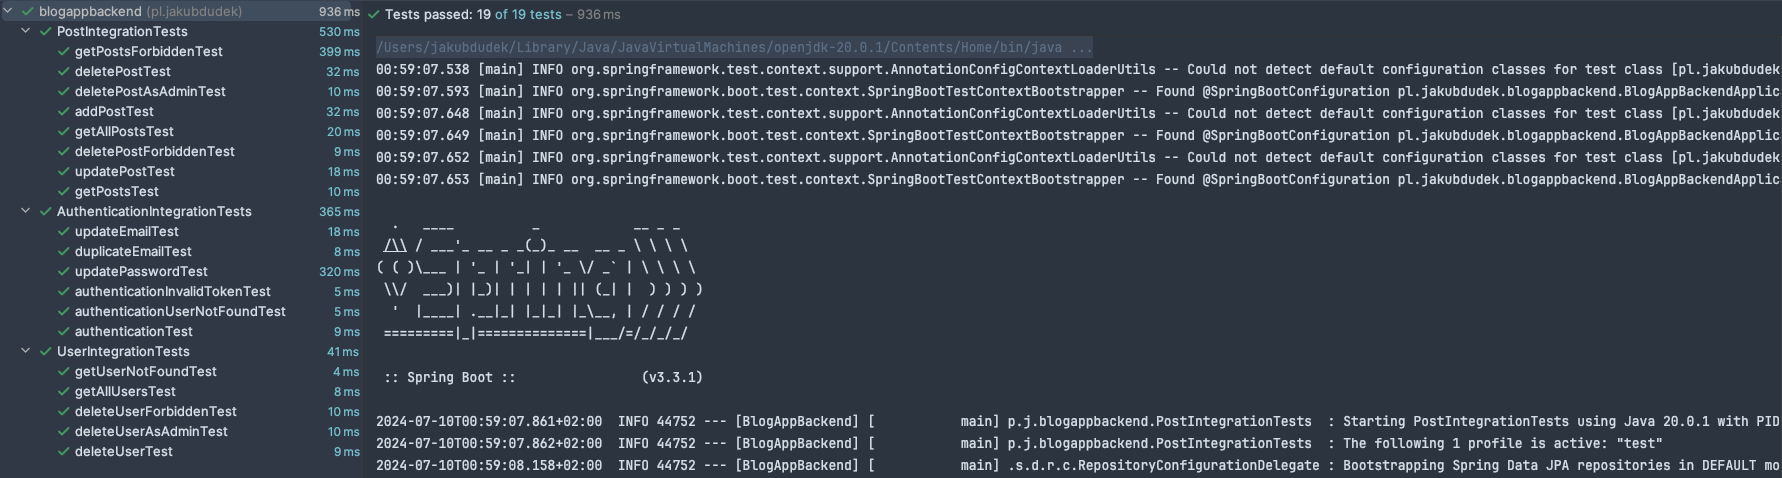
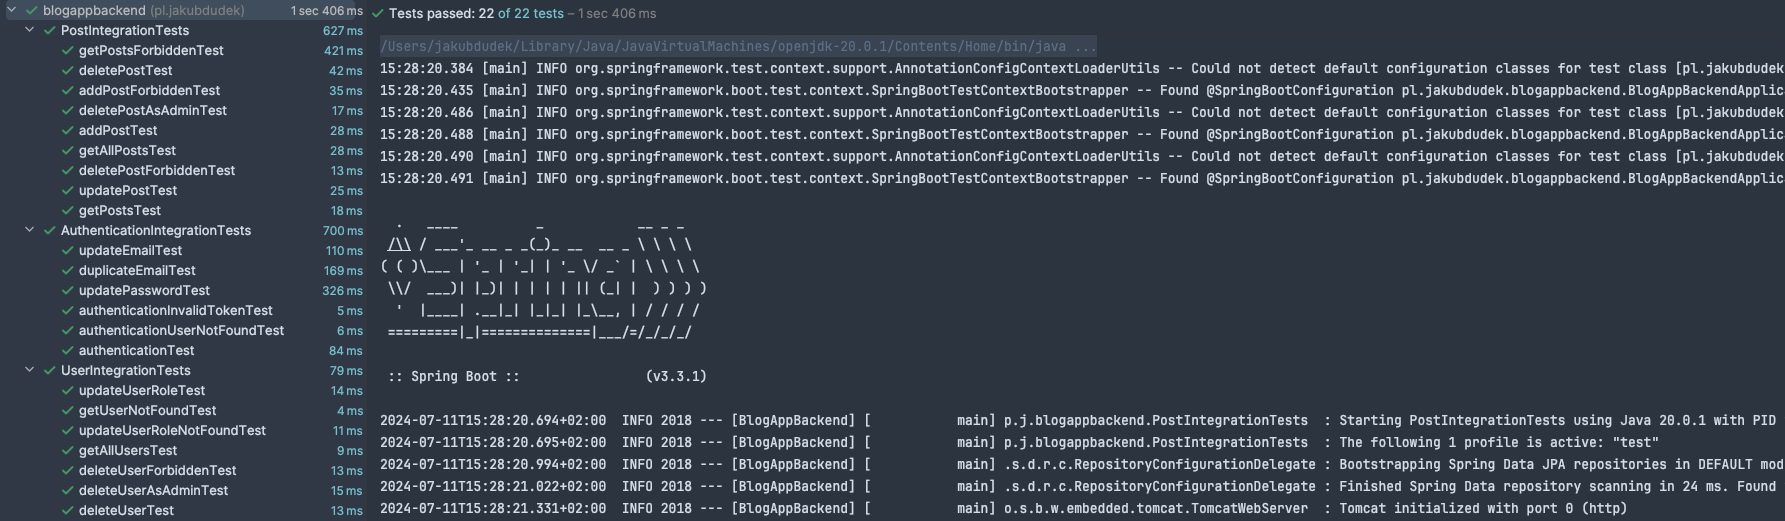
Tests fix

Changed region(s): [[0.0, 0.0, 1.0, 0.9958], [0.5247, 0.7908, 1.0, 0.9958]]

diff --git a/src/test/java/pl/jakubdudek/blogappbackend/UserIntegrationTests.java b/src/test/java/pl/jakubdudek/blogappbackend/UserIntegrationTests.java
@@ -11,7 +11,6 @@ import org.springframework.core.ParameterizedTypeReference;
 import org.springframework.http.*;
 import org.springframework.test.context.ActiveProfiles;
 import org.springframework.test.context.junit4.SpringRunner;
-import pl.jakubdudek.blogappbackend.model.dto.response.UserDto;
 import pl.jakubdudek.blogappbackend.model.entity.User;
 import pl.jakubdudek.blogappbackend.model.enumerate.UserRole;
 import pl.jakubdudek.blogappbackend.repository.UserRepository;
@@ -44,7 +43,7 @@ public class UserIntegrationTests {
 
     @Test
     public void getAllUsersTest() {
-        ResponseEntity<List<UserDto>> response = restTemplate.exchange(
+        ResponseEntity<List> response = restTemplate.exchange(
                 getUrl(""),
                 HttpMethod.GET,
                 HttpEntity.EMPTY,
@@ -59,12 +58,55 @@ public class UserIntegrationTests {
     @Test
     public void getUserNotFoundTest() {
         ResponseEntity<String> response = restTemplate.exchange(
-                getUrl("/13"),
+                getUrl("/0"),
                 HttpMethod.GET,
                 HttpEntity.EMPTY,
                 String.class
         );
         assertEquals(HttpStatus.NOT_FOUND, response.getStatusCode());
+    }
+
+    @Test
+    public void updateUserRoleTest() {
+        User user = createUser("update.role@gmail.com");
+
+        HttpEntity<UserRole> request = new HttpEntity<>(
+                UserRole.ROLE_REDACTOR,
+                createAuthHeaders(getAdmin().getEmail())
+        );
+
+        ResponseEntity<String> response = restTemplate.exchange(
+                getUrl("/"+user.getId()+"/role"),
+                HttpMethod.PUT,
+                request,
+                String.class
+        );
+
+        User updatedUser = userRepository.findById(user.getId()).orElse(null);
+
+        assertNotNull(updatedUser);
+        assertEquals(HttpStatus.OK, response.getStatusCode());
+        assertEquals(UserRole.ROLE_REDACTOR, updatedUser.getRole());
+    }
+
+    @Test
+    public void updateUserRoleNotFoundTest() {
+        User user = createUser("update.role.notfound@gmail.com");
+
+        HttpEntity<UserRole> request = new HttpEntity<>(
+                UserRole.ROLE_REDACTOR,
+                createAuthHeaders(getAdmin().getEmail())
+        );
+
+        ResponseEntity<String> response = restTemplate.exchange(
+                getUrl("/"+23472+"/role"),
+                HttpMethod.PUT,
+                request,
+                String.class
+        );
+
+        assertEquals(HttpStatus.NOT_FOUND, response.getStatusCode());
+        assertEquals("User not found", response.getBody());
     }
 
     @Test
@@ -122,6 +164,7 @@ public class UserIntegrationTests {
         String authToken = "Bearer "+jwtGenerator.generateToken(email);
         HttpHeaders headers = new HttpHeaders();
         headers.set("Authorization", authToken);
+        headers.setContentType(MediaType.APPLICATION_JSON);
         return headers;
     }
 

diff --git a/src/main/java/pl/jakubdudek/blogappbackend/service/UserService.java b/src/main/java/pl/jakubdudek/blogappbackend/service/UserService.java
@@ -1,10 +1,12 @@
 package pl.jakubdudek.blogappbackend.service;
 
 import jakarta.persistence.EntityNotFoundException;
+import jakarta.transaction.Transactional;
 import lombok.RequiredArgsConstructor;
 import org.springframework.stereotype.Service;
 import org.springframework.web.multipart.MultipartFile;
 import pl.jakubdudek.blogappbackend.exception.ForbiddenException;
+import pl.jakubdudek.blogappbackend.model.dto.response.UserSummary;
 import pl.jakubdudek.blogappbackend.util.mapper.DtoMapper;
 import pl.jakubdudek.blogappbackend.model.dto.response.UserDto;
 import pl.jakubdudek.blogappbackend.model.entity.User;
@@ -31,8 +33,8 @@ public class UserService {
         );
     }
 
-    public List<UserDto> getAllUsers() {
-        return userRepository.findAll().stream().map(dtoMapper::mapUserToDto).toList();
+    public List<UserSummary> getAllUsers() {
+        return userRepository.getUsers();
     }
 
     public UserDto editUser(Integer id, User newUser) {
@@ -52,12 +54,12 @@ public class UserService {
         }
     }
 
+    @Transactional
     public void updateRole(Integer id, UserRole role) {
-        User user = userRepository.findById(id).orElseThrow(
-                () -> new EntityNotFoundException("User not found")
-        );
-        user.setRole(role);
-        userRepository.save(user);
+        int modified = userRepository.updateUserRole(id, role);
+        if(modified == 0) {
+            throw new EntityNotFoundException("User not found");
+        }
     }
 
     public String updateProfileImage(Integer id, MultipartFile file) throws IOException {

diff --git a/src/test/java/pl/jakubdudek/blogappbackend/PostIntegrationTests.java b/src/test/java/pl/jakubdudek/blogappbackend/PostIntegrationTests.java
@@ -142,7 +142,7 @@ public class PostIntegrationTests {
 
     @Test
     public void updatePostTest() {
-        User user = createUser("update.post@gmail.com", UserRole.ROLE_USER);
+        User user = createUser("update.post@gmail.com", UserRole.ROLE_REDACTOR);
         Post post = createPost("Title to update", user, PostStatus.DRAFT);
 
         String title = "Updated Title";
@@ -181,7 +181,7 @@ public class PostIntegrationTests {
 
     @Test
     public void deletePostTest() {
-        User user = createUser("delete.post@gmail.com", UserRole.ROLE_USER);
+        User user = createUser("delete.post@gmail.com", UserRole.ROLE_REDACTOR);
         Post post = createPost("Title to update", user, PostStatus.PUBLISHED);
 
         ResponseEntity<String> response = restTemplate.exchange(
@@ -213,7 +213,7 @@ public class PostIntegrationTests {
 
     @Test
     public void deletePostForbiddenTest() {
-        User user = createUser("delete.post.forbidden@gmail.com", UserRole.ROLE_USER);
+        User user = createUser("delete.post.forbidden@gmail.com", UserRole.ROLE_REDACTOR);
         Post post = createPost("Title", getAdmin(), PostStatus.PUBLISHED);
 
         ResponseEntity<String> response = restTemplate.exchange(
@@ -235,6 +235,7 @@ public class PostIntegrationTests {
         String authToken = "Bearer "+jwtGenerator.generateToken(email);
         HttpHeaders headers = new HttpHeaders();
         headers.set("Authorization", authToken);
+        headers.setContentType(MediaType.APPLICATION_JSON);
         return headers;
     }
 

diff --git a/src/main/java/pl/jakubdudek/blogappbackend/repository/UserRepository.java b/src/main/java/pl/jakubdudek/blogappbackend/repository/UserRepository.java
@@ -1,12 +1,24 @@
 package pl.jakubdudek.blogappbackend.repository;
 
 import org.springframework.data.jpa.repository.JpaRepository;
+import org.springframework.data.jpa.repository.Modifying;
+import org.springframework.data.jpa.repository.Query;
+import org.springframework.data.repository.query.Param;
+import pl.jakubdudek.blogappbackend.model.dto.response.UserSummary;
 import pl.jakubdudek.blogappbackend.model.entity.User;
 import pl.jakubdudek.blogappbackend.model.enumerate.UserRole;
 
+import java.util.List;
 import java.util.Optional;
 
 public interface UserRepository extends JpaRepository<User, Integer> {
     int countByRole(UserRole role);
     Optional<User> findByEmail(String email);
+
+    @Query("SELECT u FROM User u")
+    List<UserSummary> getUsers();
+
+    @Modifying
+    @Query("UPDATE User u SET u.role = COALESCE(:role, u.role) WHERE u.id = :id")
+    int updateUserRole(@Param("id") Integer id, @Param("role") UserRole role);
 }

diff --git a/src/main/java/pl/jakubdudek/blogappbackend/controller/UserController.java b/src/main/java/pl/jakubdudek/blogappbackend/controller/UserController.java
@@ -6,6 +6,7 @@ import org.springframework.security.access.prepost.PreAuthorize;
 import org.springframework.web.bind.annotation.*;
 import org.springframework.web.multipart.MultipartFile;
 import pl.jakubdudek.blogappbackend.model.dto.response.UserDto;
+import pl.jakubdudek.blogappbackend.model.dto.response.UserSummary;
 import pl.jakubdudek.blogappbackend.model.entity.User;
 import pl.jakubdudek.blogappbackend.model.enumerate.UserRole;
 import pl.jakubdudek.blogappbackend.service.UserService;
@@ -25,7 +26,7 @@ public class UserController {
     }
 
     @GetMapping
-    public ResponseEntity<List<UserDto>> getAllUsers() {
+    public ResponseEntity<List<UserSummary>> getAllUsers() {
         return ResponseEntity.ok(userService.getAllUsers());
     }
 

diff --git a/src/test/java/pl/jakubdudek/blogappbackend/AuthenticationIntegrationTests.java b/src/test/java/pl/jakubdudek/blogappbackend/AuthenticationIntegrationTests.java
@@ -153,6 +153,7 @@ public class AuthenticationIntegrationTests {
         String authToken = "Bearer "+jwtGenerator.generateToken(email);
         HttpHeaders headers = new HttpHeaders();
         headers.set("Authorization", authToken);
+        headers.setContentType(MediaType.APPLICATION_JSON);
         return headers;
     }
 
